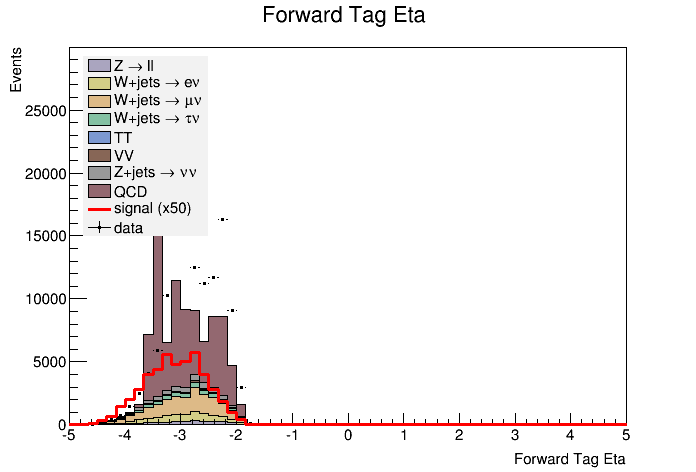
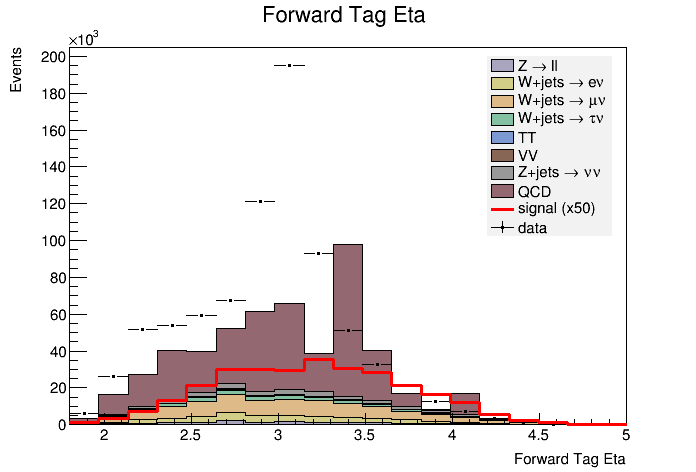
changed variable.cpp so build var string takes abs of variable

diff --git a/src/variable.cpp b/src/variable.cpp
@@ -40,12 +40,13 @@ std::string Variable::scale_bins_for_cut()
 
 std::string Variable::build_var_string(const char* label, bool with_cut) 
 {
-  std::string var_string(name);
-  var_string += ">>";
+  std::string var_string("abs(");
+  var_string.append(name);
+  var_string += ")>>";
   var_string.append(label);
   var_string += "(";
 
-  /*if (with_cut) {
+  if (with_cut) {
     var_string += bins_cut;
     var_string += ",";
     var_string.append(x_min_cut);
@@ -53,14 +54,14 @@ std::string Variable::build_var_string(const char* label, bool with_cut)
     var_string.append(x_max_cut);
     var_string += ")";
   }
-  else {*/
+  else {
     var_string.append(bins_nocut);
     var_string += ",";
     var_string.append(x_min_nocut);
     var_string += ",";
     var_string.append(x_max_nocut);
     var_string += ")";
-  //} 
+  } 
   return var_string;
 }
 
@@ -92,24 +93,18 @@ std::string Variable::build_selection_string(bool with_cut, bool is_signal)
   std::string sel_string("");
 
   if (with_cut) {
-    /*sel_string += "(abs(";
+
+    sel_string += "(";
+    sel_string.append("abs(");
     sel_string.append(name);
+    sel_string.append(")");/*
     sel_string += ">";
-    sel_string.append(x_min_cut);
+    sel_string.append(x_max_cut);
     sel_string += ")&&(";
     sel_string.append(name);
     sel_string += "<";
-    sel_string.append(x_max_cut);*/
-
-    sel_string += "((";//)||
-    sel_string.append(name);
-    sel_string += ">abs(";
-    sel_string.append(x_max_cut);
-    sel_string += "))&&(";
-    sel_string.append(name);
-    sel_string += "<abs(";
     sel_string.append(x_min_cut);
-    sel_string.append("))");
+    sel_string.append(")");*/
 
     
     /*sel_string +="&&(";
@@ -148,7 +143,7 @@ std::string Variable::build_selection_string(bool with_cut, bool is_signal)
     sel_string += ")";*/
 
     sel_string += ")*";  
-
+ 
       } 
   
     sel_string += "total_weight_lepveto";

diff --git a/src/main.cpp b/src/main.cpp
@@ -51,7 +51,7 @@ Variable* var_arr[] = {jet1_pt, jet2_eta, forward_tag_eta, central_tag_eta, dije
   std::vector<DataChain*> bg_chains (myDataChain, myDataChain + sizeof(myDataChain) / sizeof(myDataChain[0]));
    int j;
    int tv_arr[7]={2,4,8,11,17,18,21};  //forward tag eta, dijet deta, met significance,sqrt ht, all jets met min dphi, dijet M,met
-  for (int i = 0; i < 7/*variables.size()*/; i++) {
+  for (int i = 0; i < 1/*variables.size()*/; i++) {
           j=tv_arr[i];
 	  HistoPlot::draw_plot(variables[j], bg_chains, signal_chain, data_chain, true);
   }

diff --git a/src/histo_plot.cpp b/src/histo_plot.cpp
@@ -9,6 +9,7 @@ void HistoPlot::draw_plot(Variable* var, std::vector<DataChain*> bg_chains,
   TLegend* legend        = new TLegend(0.0, 0.5, 0.0, 0.88);
   THStack stack 	 	 = draw_stacked_histo(legend, var, bg_chains, with_cut);
   TH1F* signal_histo 	 = draw_signal(signal_chain, var, with_cut);
+
   TH1F* data_histo   	 = draw_data(data, var, with_cut);
 
   legend->AddEntry(signal_histo, (build_signal_leg_entry(var, signal_chain)).c_str(), "l");
